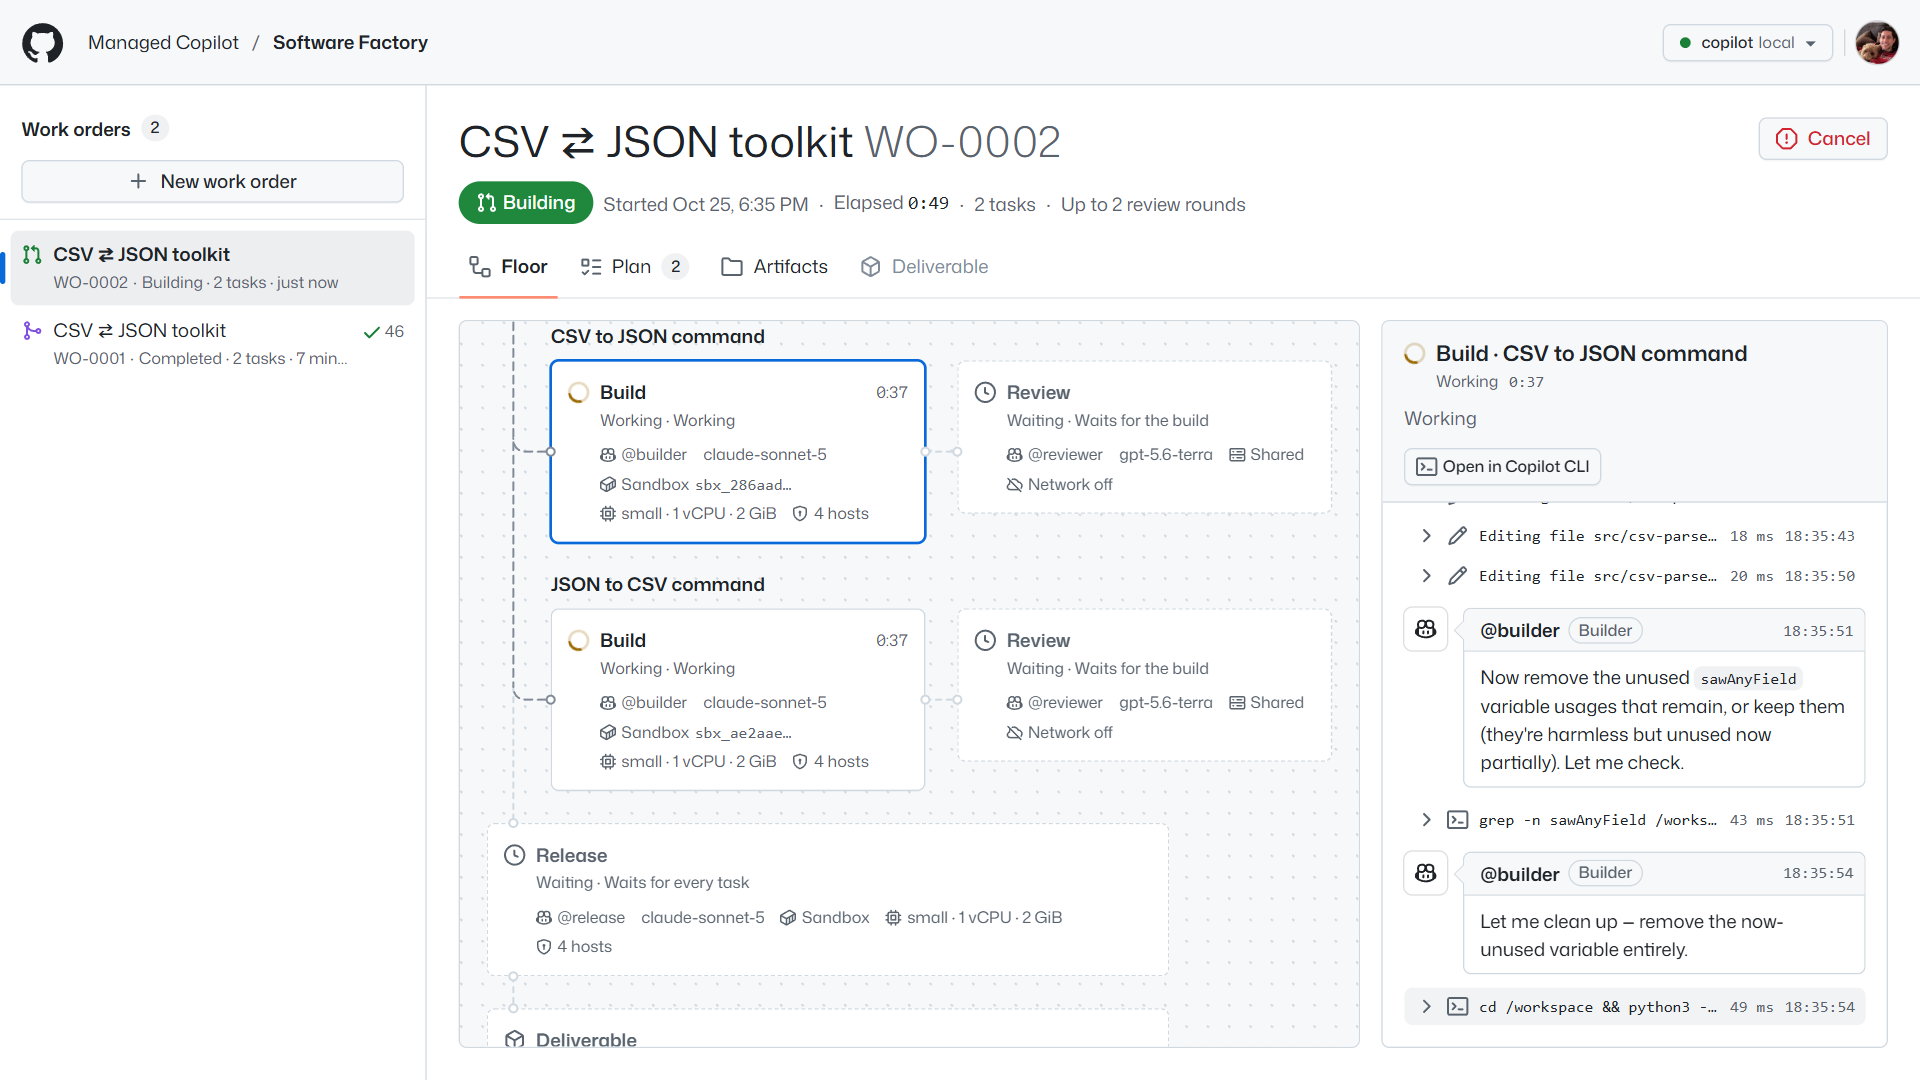
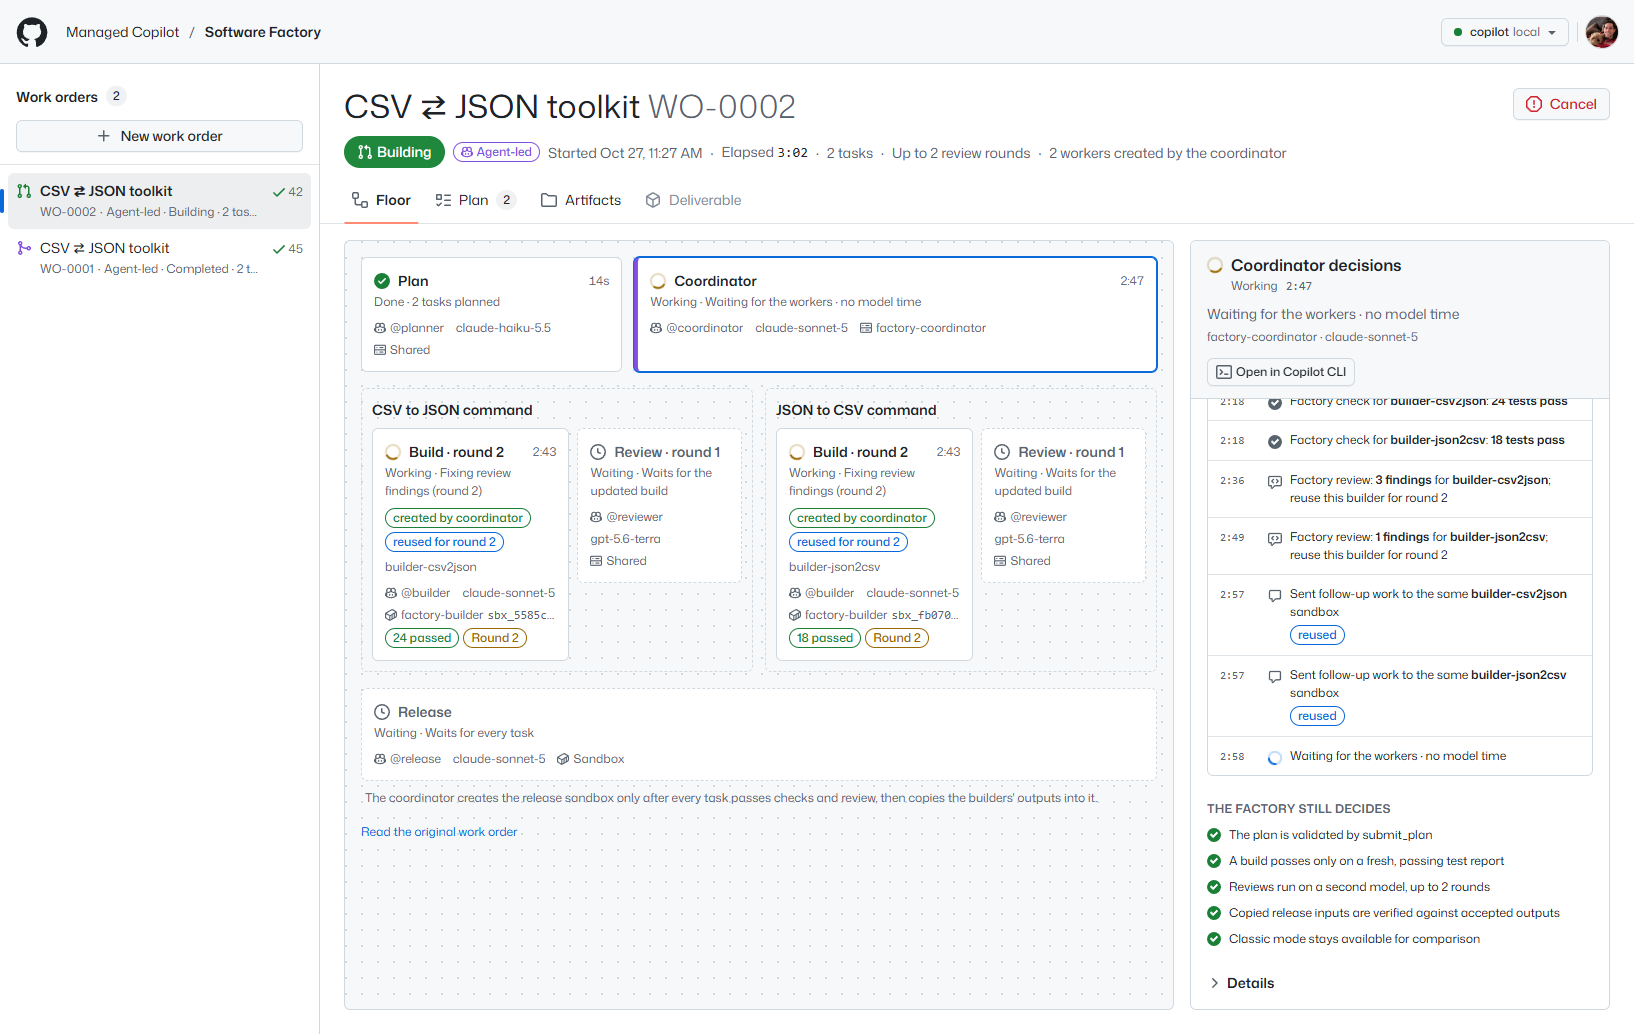
Factory: document agent-led mode with real run screenshots
Document the coordinator tools, Classic selector, worker reuse, verified file transfer, recovery, and the 45-test and 58-test local acceptance runs.

diff --git a/demos/software-factory/README.md b/demos/software-factory/README.md
@@ -1,27 +1,35 @@
 # AI software factory
 
-A work order goes in; a tested, reviewed, and documented release comes out. The factory runs a pipeline of
-specialized Copilot agents on **Managed Copilot**. Each station is an environment you declare in the AppHost, with
-its own custom agent, skills, isolation, and network policy. The app itself is ordinary Node code built on the stock
-`@github/copilot-sdk` and `@managed-copilot/sdk`.
+A work order goes in; a tested, reviewed, and documented release comes out. In **Agent-led** mode (the default), a
+coordinator agent decides when to create builder sandboxes, when to reuse them for fixes, and when to create the
+release sandbox. The floor shows those workers and the coordinator's decisions live. The factory still validates the
+plan, checks real test reports, reviews on a second model, and accepts the deliverable.
 
-![The factory floor mid-run: two builders working in their own sandboxes, with reviews on a second model and the release waiting](docs/screenshots/floor-building.png)
+**Classic** keeps the original app-orchestrated pipeline. Choose either mode on the new-work-order form or in the
+API. Both use the same planners, builders, reviewers, harness, and release gates, built on the stock
+`@github/copilot-sdk` and `@managed-copilot/sdk` with no runtime modifications.
 
-*A live run of the featured work order: the planner split it into two tasks; one builder is still working in its
-sandbox while the other's finished work goes to review on a different model. The panel streams the selected
-station's activity (skills, commands, file edits, and the agent's text as it's written) and can open the session in
-Copilot CLI.*
+![The agent-led floor: a coordinator, two builder sandboxes reused for review fixes, and a live log of its decisions](docs/screenshots/floor-building.png)
+
+*A real run of the CSV ⇄ JSON toolkit, not fixture data. The coordinator creates a worker per task, sends review
+findings back to the same workers, then creates the release worker and copies in the accepted outputs. In the first
+verified agent-led run, both builders were reused for round two and the release passed **45 tests in 5m 17s**. A second
+run restarted the factory mid-build, preserved the coordinator and both worker IDs, and passed **58 tests in 6m 31s**.*
 
 ```mermaid
 flowchart LR
-  WO["Work order"] --> P["Plan<br/>planner · shared · network off"]
-  P --> B1["Build task 1<br/>builder · own sandbox"]
-  P --> B2["Build task 2<br/>builder · own sandbox"]
-  B1 <-->|"send back"| R1["Review<br/>reviewer · shared · 2nd model"]
-  B2 <-->|"send back"| R2["Review<br/>reviewer · shared · 2nd model"]
-  R1 --> REL["Release<br/>release · fresh sandbox"]
-  R2 --> REL
-  REL --> D["Deliverable<br/>bundle · patch · test report · notes"]
+  WO["Work order"] --> P["Planner<br/>validated submit_plan"]
+  P --> C["Coordinator<br/>factory-coordinator · shared runtime"]
+  C -->|"start_worker"| B1["Builder 1<br/>own sandbox"]
+  C -->|"start_worker"| B2["Builder 2<br/>own sandbox"]
+  C <-->|"check_build / request_review"| G["Factory gates<br/>fresh tests · second-model review"]
+  C -->|"message_worker: fixes in same sandbox"| B1
+  C -->|"message_worker: fixes in same sandbox"| B2
+  C -->|"start_worker after acceptance"| REL["Release worker<br/>own sandbox"]
+  B1 -->|"copy_worker_files"| REL
+  B2 -->|"copy_worker_files"| REL
+  REL --> CHECK["check_release<br/>full suite · patch · notes"]
+  CHECK --> D["Deliverable"]
 ```
 
 ## What it shows
@@ -29,19 +37,26 @@ flowchart LR
 | Station | Environment | Placement | What happens |
 | --- | --- | --- | --- |
 | Plan | `factory-planner` | shared, network off | The `planner` agent splits the work order into 1 to 4 tasks that own disjoint files, and submits the plan through `submit_plan`, a `defineTool` handler that runs in the factory's process. |
-| Build | `factory-builder` | one fresh sandbox per task, network limited to GitHub and the package registry | The `builder` agent implements its task with tests, then runs the `factory-check` skill. The skill runs `node:test` and publishes code and a test report to `/workspace/outputs`. Tasks build in parallel; dependents wait. |
+| Coordinator | `factory-coordinator` | orchestrator on the shared runtime, network off | Uses platform worker tools alongside the factory's `defineTool` gates. Chooses when to create workers and when to message existing ones. Its worker environments are `factory-builder` and `factory-release`, with up to 6 workers per work order (four tasks, release, and a replacement). |
+| Build | `factory-builder` | one fresh sandbox per task, network limited to GitHub and the package registry | The coordinator starts the `builder` agent, the factory prepares its inputs, and the coordinator sends the task. The `factory-check` skill runs `node:test` and publishes code and a test report to `/workspace/outputs`. Independent tasks can build in parallel; dependents wait. |
 | Review | `factory-reviewer` | shared, network off, different model family | The `reviewer` agent reads the published code and test report and calls `submit_review`. Requested changes go back to the **same builder sandbox** for another round. |
-| Release | `factory-release` | a fresh sandbox | The `release` agent merges every task, adds an integration test and a README, runs the full suite, and publishes the bundle, a patch, a test report, and release notes. |
+| Release | `factory-release` | a fresh sandbox | After the factory accepts every task, the coordinator creates this worker and copies the builders' published files into it. The factory verifies those bytes before preparing the inputs. The `release` agent adds integration tests and a README, runs the full suite, and publishes the bundle, patch, test report, and release notes. |
+
+The model creates **sessions and sandboxes from declared environments**, not arbitrary new environment definitions.
+Classic mode uses the same four original station environments without a coordinator.
 
 Managed Copilot features in play (see the [developer experience spec](../../docs/spec/developer-experience.md)):
 
-- **Environments declared in the AppHost** (section 1). [`apphost.mts`](apphost.mts) exports the four environments and the app.
+- **Environments declared in the AppHost** (section 1). [`apphost.mts`](apphost.mts) exports the five environments and the app.
 - **Shared sessions with your own tools** (section 3). The planner and reviewer call factory tools that run in the factory's process.
 - **A fresh isolated sandbox per session** (section 4), **seeded per session** through `managed.files(session).write()` (section 5).
 - **Turn-scoped, versioned artifacts** (section 6). Every build round publishes new versions; the floor diffs them.
 - **Network control** (section 7). Office stations run with `network: false`; workshop sandboxes reach only the allowed hosts.
 - **Agents, skills, and instructions shipped with the environment** (section 10). See [`customizations/office`](customizations/office) and [`customizations/workshop`](customizations/workshop).
 - **Coming back later** (section 11). Work orders survive restarts; in-flight sandbox turns are resumed with `managed.resumeSession`.
+- **An orchestrator agent** (section 17). `start_worker`, `message_worker`, `wait_for_workers`, and `copy_worker_files`
+  perform the coordinator's decisions. The app observes with `managed.workers(coordinator).list()`, worker platform
+  events, and `managed.sessions.get`, never by attaching a client to a worker that would take over its prompts.
 - **Open in Copilot CLI** (section 14). Any station's session can be attached from a terminal: on Windows the station
   panel opens a console running `npx managed-copilot attach <session>`; elsewhere it shows the command to copy. The
   CLI and the factory see the same turns.
@@ -51,9 +66,9 @@ Managed Copilot features in play (see the [developer experience spec](../../docs
 | | |
 | --- | --- |
 | ![Review station sending work back to the builder with a finding](docs/screenshots/review.png) | ![Deliverable: release notes, tests, and the bundle](docs/screenshots/deliverable.png) |
-| **Review sends work back.** The reviewer runs on another model family and returns findings with file and line; the builder fixes them in the same sandbox, and the next round is approved. | **The deliverable.** The release station integrates the tasks, adds integration tests and a README, and publishes the bundle, a patch, a test report, and release notes. |
+| **Review sends work back.** The factory's reviewer runs on another model family. The coordinator sends its findings to the **same builder** for the next round, rather than provisioning another sandbox. | **The deliverable.** The release station integrates the tasks, adds integration tests and a README, and publishes the bundle, a patch, a test report, and release notes. |
 | ![Artifacts: the release patch in the diff viewer](docs/screenshots/artifacts-patch.png) | ![Home: templates and the new work order form](docs/screenshots/home.png) |
-| **Every artifact, every version.** Each station's published files, per round, with code, diff, Markdown, and test report viewers. | **Start from a template** or describe your own work order; history survives restarts. |
+| **Every artifact, every version.** Each station's published files, per round, with code, diff, Markdown, and test report viewers. | **Start from a template**, choose Agent-led or Classic, or describe your own work order; history survives restarts. |
 
 <img src="docs/screenshots/mobile-floor.png" alt="The floor on a phone-sized screen" width="260" align="right">
 
@@ -69,13 +84,14 @@ and a GitHub sign-in with Copilot (`gh auth login`).
 ```powershell
 pnpm install
 pnpm build
-aspire run          # the platform, sandboxes, and the factory; open the "software-factory" resource
+aspire run --non-interactive  # the platform, sandboxes, and the factory; open "software-factory"
 ```
 
 The factory floor opens at <http://localhost:7480>. Pick the **CSV ⇄ JSON toolkit** template and press
-**Start work order**: two builders work side by side, the reviewer usually sends work back once, and the release
-lands in three to nine minutes. Measured live runs: 2m 52s (51 tests), 3m 34s (44 tests), and 4m 25s (36 tests)
-from `main`, and 3m 55s to 8m 32s while the platform was coming together.
+**Start work order** with Agent-led selected. Watch the coordinator create the builders, reuse them for any review
+fixes, and create the release sandbox only after the tasks pass. The decision log is the default side panel; select a
+station to see its reports, tests, and reviews. **Open in Copilot CLI** on the coordinator reaches the same session.
+Classic retains the original pipeline view and streamed station activity.
 
 ### Scripted happy path
 
@@ -84,9 +100,32 @@ downloads the release:
 
 ```powershell
 pnpm --filter @managed-copilot/demo-software-factory happy-path
+pnpm --filter @managed-copilot/demo-software-factory happy-path --mode classic
 ```
 
-It exits 0 only when the release's full test suite passes.
+It exits 0 only when the release's nonempty full test suite passes and the bundle downloads. Agent-led runs also
+check that the coordinator and every worker are recorded. Add `--require-reuse` to require a builder reused for
+review fixes; a correct first-pass build can otherwise legitimately need no fixes.
+
+The script saves the zip, the work-order snapshot, and activity JSON under `.data/happy-path` (or
+`HAPPY_PATH_OUTPUT`). It reconnects across a factory restart, following the original work order without resubmitting
+it. Set `FACTORY_URL` when using a nondefault port. For parallel local work, start Aspire with
+`MANAGED_COPILOT_PORT_OFFSET` and set `MANAGED_COPILOT_URL` explicitly: only offset 0 writes local discovery.
+
+The API uses the same selector (omitting `mode` means `"agent"`):
+
+```ts
+await fetch("http://localhost:7480/api/work-orders", {
+  method: "POST",
+  headers: { "content-type": "application/json" },
+  body: JSON.stringify({
+    title: "CSV toolkit",
+    brief: "Build a CSV and JSON conversion toolkit with tests and independent review.",
+    mode: "classic", // or "agent"
+    maxReviewRounds: 2,
+  }),
+});
+```
 
 ### Without Aspire (development)
 
@@ -102,22 +141,40 @@ environments.
 
 ## How it works
 
+- **The agent chooses; the factory gates.** The coordinator has `prepare_workspace`, `check_build`, `request_review`,
+  `prepare_release`, `check_release`, and `factory_status` alongside the platform worker tools. These handlers never
+  create or message a worker for it. Starting a worker asks the coordinator's SDK permission handler, which allows
+  only the work order's named builders and release worker, their correct environment, agent, model, and readiness
+  task. The platform handles each approved worker's own permission requests.
 - **Plans are validated before they are accepted.** The `submit_plan` handler rejects overlapping file ownership,
   unsafe paths, unknown or cyclic dependencies, and tasks without tests. It returns problems the planner can fix and
   resubmit.
 - **Sandboxes are seeded, not trusted.** The factory generates `package.json` and writes `.factory/task.json`, the
   plan, and the work order into each new sandbox. It never writes credentials. The `factory-check` harness publishes
-  only the files a builder added or changed.
+  only the files a builder added or changed. In Agent-led mode a new worker's first task is just to reply `READY`;
+  preparation waits for that turn to finish, then writes the seed before returning the real task to the coordinator.
+  For release, `copy_worker_files` stages `outputs/files` under `.factory/incoming/<task>/`. `prepare_release` verifies
+  those copied files against the accepted artifacts, then assembles them and handles conflicts just as Classic does.
 - **Tests are a gate.** A station passes only when the harness's report shows tests ran and none failed. If a turn
   ends without a passing check, the factory sends the agent back up to twice before failing the station. It also
   notices when a builder skipped re-running the check after a fix.
+- **Repeated gates are idempotent.** Checks and reviews are pinned to a worker's message number and actual runtime
+  turn. The published test report must belong to that latest turn, even if an intermediate turn was never checked. Calling a tool twice
+  cannot consume another nudge, count as another review round, or pass an old report as new work. A builder that
+  changes while being reviewed must be checked and reviewed again.
 - **Review rounds are bounded.** Blockers and majors go back to the builder. After the configured number of rounds,
   the task is accepted with its open findings, and the release notes list them.
 - **State is split deliberately.** Sessions, sandboxes, and artifacts live in the platform. The factory keeps its own
   records (work orders, activity, and copies of published text artifacts) in SQLite under `.data/`, so the floor
   loads instantly and survives restarts.
-- **Restarts resume work.** A work order that was running when the factory stopped resumes from its last checkpoint.
-  Plans and reviews are re-run, because they're cheap. Builders and the release reattach to their sandboxes and wait
+- **Agent-led restarts preserve the coordinator and worker mapping.** The factory resumes the same coordinator
+  session with its tools, stops only its unfinished coordinator turn (not its workers), and reconciles the worker
+  list and session state. A new coordinator turn reads the persisted gates and waits for existing workers rather
+  than blindly resending their tasks. Interrupted preparation is idempotent; an uncertain review is run again.
+  Cancelling stops workers through the platform's session-delete API without attaching to them; retry reuses the
+  accepted plan and creates replacements for workers that were deleted.
+- **Classic restarts resume work as before.** A work order that was running when the factory stopped resumes from its
+  last checkpoint. Plans and reviews are re-run, because they're cheap. Builders and the release reattach to their sandboxes and wait
   for the in-flight turn. If that turn didn't finish, the factory doesn't assume any of it did. It notes why on the
   floor and asks the agent to check its workspace and continue, telling it that the commands it was running may have
   stopped partway. That happens when the platform reports the turn failed or stopped, when the sandbox restarted
@@ -139,21 +196,23 @@ environments.
 | `PORT` | `7480` | HTTP port for the floor and API |
 | `HOST` | `127.0.0.1` | Interface to listen on (`0.0.0.0` in a container, together with `FACTORY_ALLOWED_HOSTS`) |
 | `MANAGED_COPILOT_URL` | local discovery | Gateway URL (Aspire sets it) |
-| `FACTORY_MODEL_PLANNER` / `_BUILDER` / `_REVIEWER` / `_RELEASE` | first available preference | Override a station's model |
-| `FACTORY_MAX_SANDBOXES` | `4` | Sandboxes the factory runs at once |
+| `FACTORY_MODEL_PLANNER` / `_BUILDER` / `_REVIEWER` / `_RELEASE` / `_COORDINATOR` | first available preference | Override a station's model; agent-led builders and reviewers must use different models |
+| `FACTORY_MAX_SANDBOXES` | `4` | Sandboxes Classic runs at once across work orders; agent-led limits are the coordinator environment's `maxWorkers` |
 | `FACTORY_BUILD_TIMEOUT_MINUTES` and similar | 5 to 20 | Turn timeouts per station |
+| `FACTORY_COORDINATE_TIMEOUT_MINUTES` | `60` | A coordinator turn covers the whole job, including waits with no model calls |
 | `FACTORY_DATA_DIR` | `.data` | The factory's SQLite store |
 | `FACTORY_ALLOWED_HOSTS` | none | Extra host names allowed to address the server (it accepts loopback names only by default) |
 | `FACTORY_ATTACH_URL` | none | Gateway URL added to "Open in Copilot CLI" commands (`--url`) when users reach the platform at another address, as in a cloud deployment |
 
-The default models are Claude Haiku for planning, Claude Sonnet for building and release, and a GPT model for review,
+The default models are Claude Haiku for planning, Claude Sonnet for coordination, building, and release, and a GPT model for review,
 chosen from what your Copilot entitlement offers (`client.listModels()`).
 
 ## Layout
 
 | Path | Contents |
 | --- | --- |
-| `apphost.mts` | AppHost fragment: the four environments and the app resource |
+| `apphost.mts` | AppHost fragment: the five environments, worker limits, and the app resource |
+| `customizations/coordinator` | The coordinator's agent and instructions for deciding, reusing, and satisfying factory gates |
 | `customizations/office` | `planner` and `reviewer` agents, `task-decomposition` and `review-rubric` skills |
 | `customizations/workshop` | `builder` and `release` agents, `factory-check` (harness), `node-project`, and `release-checklist` skills |
 | `src/server` | Pipeline orchestrator, platform connection, REST and server-sent events, SQLite store |
